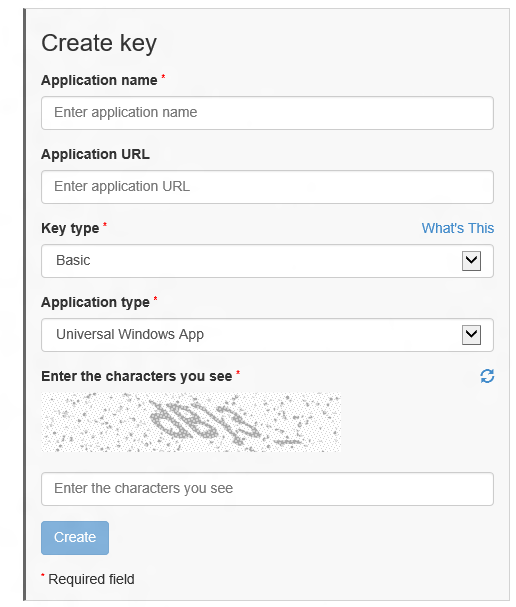
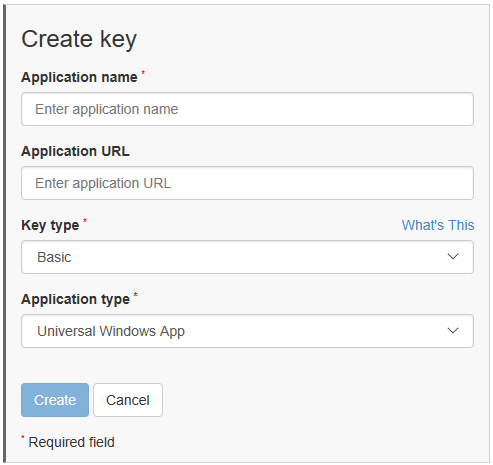
Merged PR 1410: Update auth topic to match current web page UI
Update to match current web page. Updated text and graphic.

Changed region(s): [[0.0, 0.0, 1.0, 1.0]]

diff --git a/windows-apps-src/maps-and-location/authentication-key.md b/windows-apps-src/maps-and-location/authentication-key.md
@@ -38,9 +38,9 @@ To create a new key
 
 4.  If you don't already have a Bing Maps account, create a new Bing Maps account. Enter the **Account Name**, **Contact Name**, **Company Name**, **Email Address**, and **Phone Number**. After accepting the terms of use, click **Create**.
 
-5.  Under the **My account** menu, click **Create or view keys**.
+5.  Under the **My account** menu, click **My Keys**.
 
-6.  Click on the link **to create a new key**.
+6.  If you have previously created a key, click on the link to create a new key. Otherwise proceed to the Create Key form.
 
 7.  Complete the **Create Key** form and then click **Create**.
 
